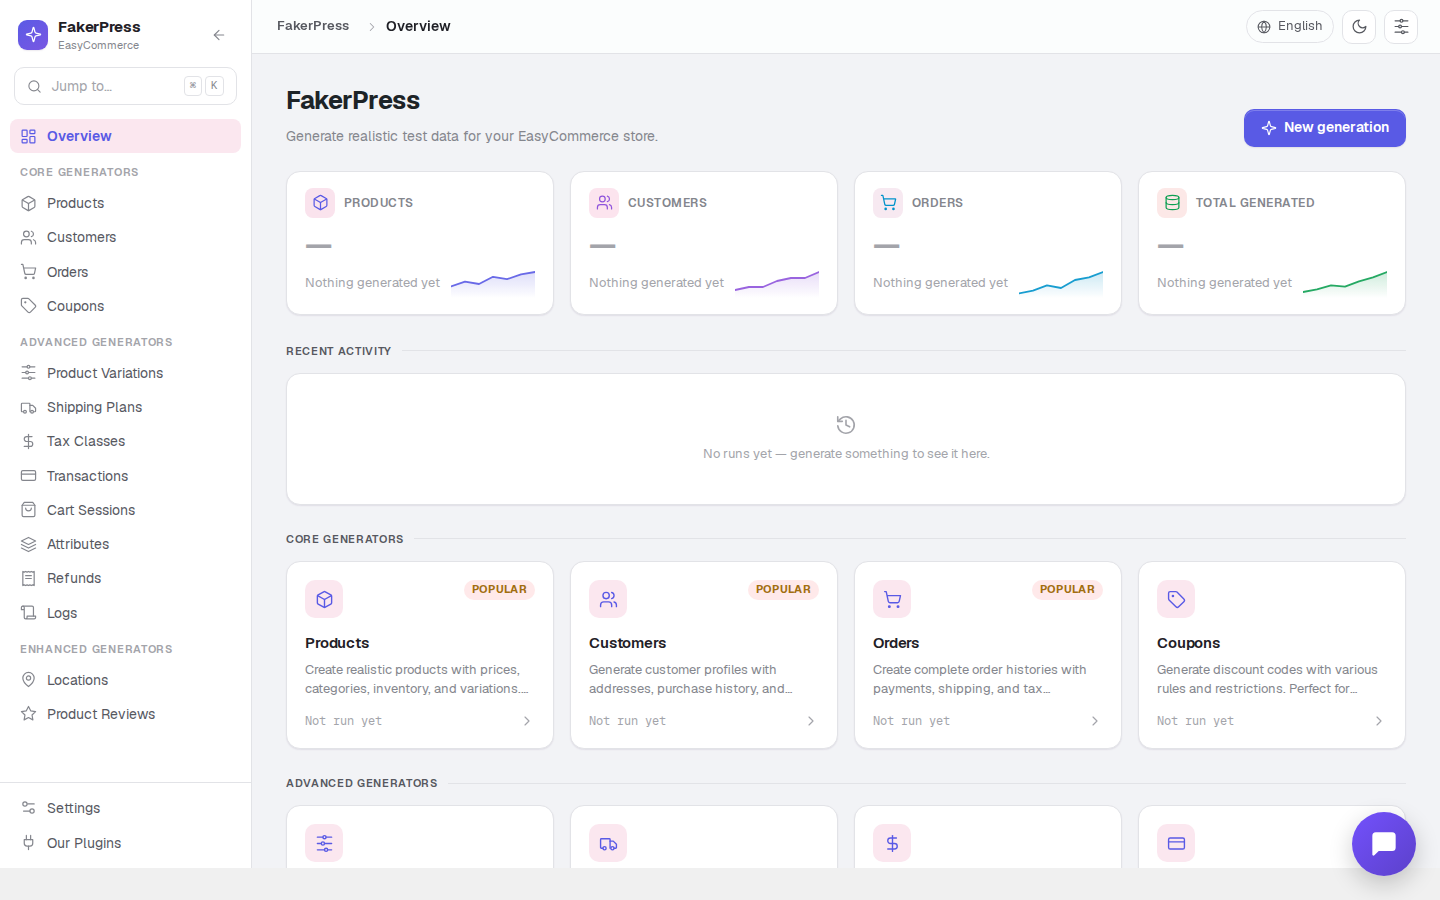
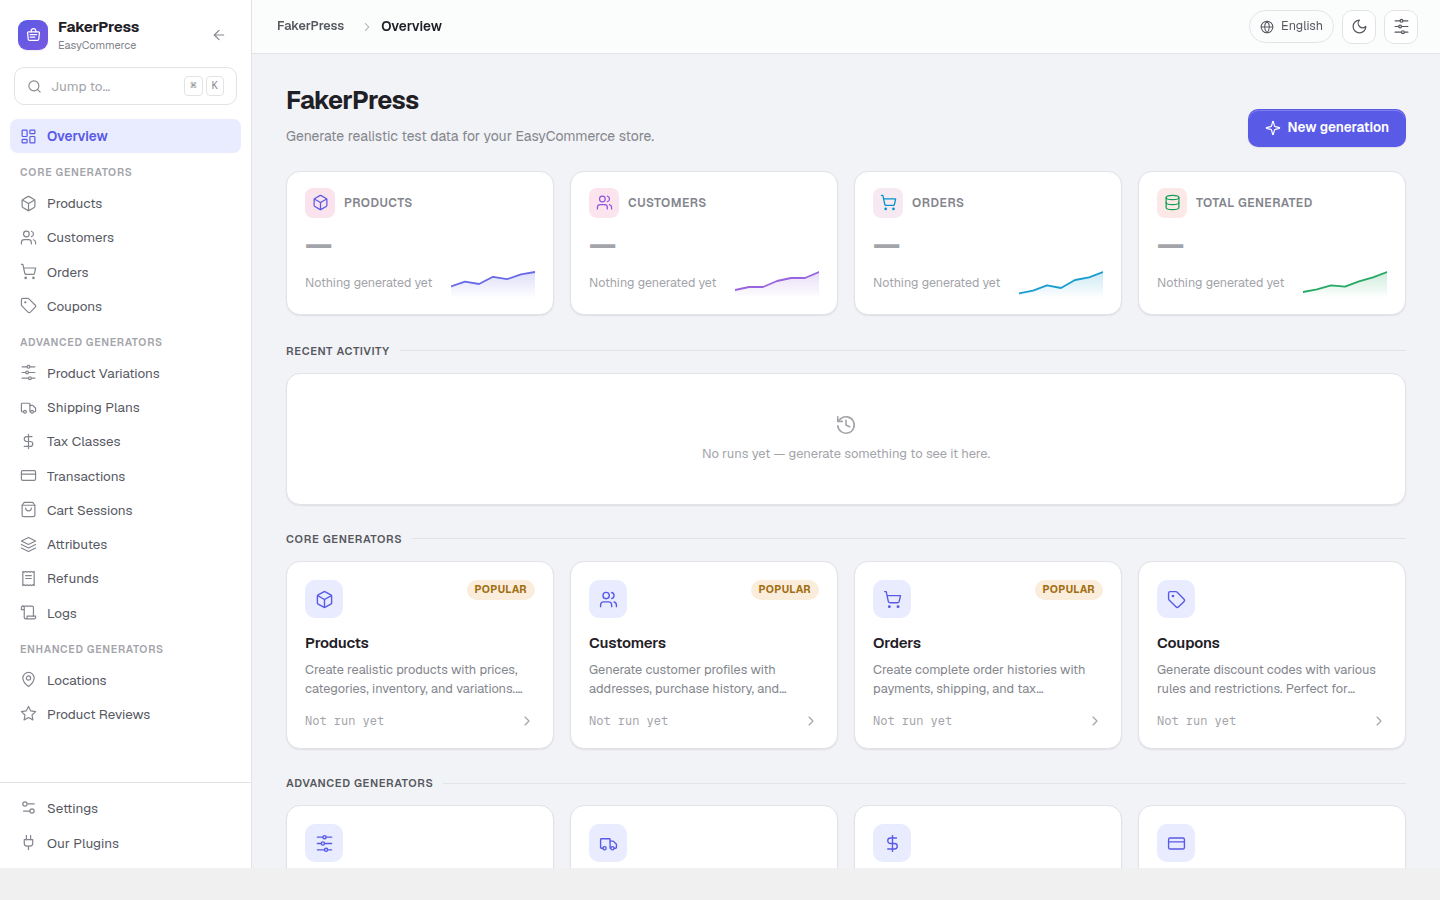
fix(ui): keep accent tints on the accent's own hue, and refresh the screenshots
The soft accent tokens were built with color-mix() in oklch. oklch carries an
explicit hue channel, and both white and black sit at hue 0, so mixing the
accent towards a neutral interpolated its hue as well as its lightness: the
indigo accent at hue 277 came out at hue 350, and every highlight, badge,
hover state and focus ring in the admin rendered pink. Mixing in oklab
instead keeps the same perceptual space on rectangular axes, so a blend
towards a neutral leaves the hue alone. All 25 mixes across both stylesheets
move over.

The listing screenshots are regenerated against 2.3.0 as a result. They had
been showing the previous sparkle logo, the pink tints, and the support
widget belonging to the site they were captured on. The capture spec now
hides that widget and pins the admin colour variables, so whoever runs it
cannot have their personal admin colour scheme decide what colour the
WordPress.org listing is.

playwright.screenshots.config.ts drives an installed Chrome through
channel: 'chrome' rather than requiring a browser download, and fixes the
viewport at 1440x900 so every screenshot matches.

diff --git a/src/admin/components.css b/src/admin/components.css
@@ -13,7 +13,7 @@
 .fp-root .fp-brand { display:flex; align-items:center; gap:10px; padding:16px 18px 12px; }
 .fp-root .fp-brand-mark {
   width:30px; height:30px; border-radius:9px; flex-shrink:0;
-  background:linear-gradient(140deg, var(--accent), color-mix(in oklch, var(--accent), var(--violet) 55%));
+  background:linear-gradient(140deg, var(--accent), color-mix(in oklab, var(--accent), var(--violet) 55%));
   color:var(--accent-contrast); display:grid; place-items:center; box-shadow:var(--shadow-sm);
 }
 .fp-root .fp-brand-name { font-weight:650; font-size:15px; letter-spacing:-.01em; }
@@ -44,7 +44,7 @@
 .fp-root .fp-nav-item.active .fp-nav-ic { color:var(--accent); }
 .fp-root .fp-nav-ic { color:var(--text-3); }
 .fp-root .fp-nav-count { margin-left:auto; font-size:11px; font-family:var(--font-mono); color:var(--text-faint); background:var(--surface-inset); padding:1px 7px; border-radius:var(--r-full); }
-.fp-root .fp-nav-item.active .fp-nav-count { background:color-mix(in oklch, var(--accent) 16%, transparent); color:var(--accent); }
+.fp-root .fp-nav-item.active .fp-nav-count { background:color-mix(in oklab, var(--accent) 16%, transparent); color:var(--accent); }
 
 .fp-root .fp-nav-foot { border-top:1px solid var(--border); padding:8px 10px; display:flex; flex-direction:column; gap:1px; }
 
@@ -70,7 +70,7 @@
 .fp-root .fp-main { flex:1; min-width:0; display:flex; flex-direction:column; min-height:0; }
 .fp-root .fp-topbar {
   height:54px; flex-shrink:0; display:flex; align-items:center; gap:12px; padding:0 22px;
-  border-bottom:1px solid var(--border); background:color-mix(in oklch, var(--surface) 70%, transparent);
+  border-bottom:1px solid var(--border); background:color-mix(in oklab, var(--surface) 70%, transparent);
   backdrop-filter:blur(8px); position:sticky; top:0; z-index:10;
 }
 .fp-root .fp-crumbs { display:flex; align-items:center; gap:7px; font-size:13.5px; color:var(--text-3); }
@@ -101,7 +101,7 @@
 .fp-root .fp-btn-md { height:38px; padding:0 16px; font-size:13.5px; }
 .fp-root .fp-btn-sm { height:31px; padding:0 11px; font-size:12.5px; }
 .fp-root .fp-btn-lg { height:44px; padding:0 22px; font-size:14.5px; }
-.fp-root .fp-btn-primary { background:var(--accent); color:var(--accent-contrast); box-shadow:var(--shadow-sm), inset 0 1px 0 color-mix(in oklch, white 22%, transparent); }
+.fp-root .fp-btn-primary { background:var(--accent); color:var(--accent-contrast); box-shadow:var(--shadow-sm), inset 0 1px 0 color-mix(in oklab, white 22%, transparent); }
 .fp-root .fp-btn-primary:hover { background:var(--accent-hover); }
 .fp-root .fp-btn-outline { background:var(--surface); color:var(--text); border-color:var(--border-strong); }
 .fp-root .fp-btn-outline:hover { background:var(--surface-inset); }
@@ -109,8 +109,8 @@
 .fp-root .fp-btn-ghost:hover { background:var(--surface-inset); color:var(--text); }
 .fp-root .fp-btn-soft { background:var(--accent-soft); color:var(--accent); }
 .fp-root .fp-btn-soft:hover { background:var(--accent-soft-2); }
-.fp-root .fp-btn-danger { background:var(--surface); color:var(--red); border-color:color-mix(in oklch, var(--red) 35%, var(--border)); }
-.fp-root .fp-btn-danger:hover { background:color-mix(in oklch, var(--red) 10%, var(--surface)); }
+.fp-root .fp-btn-danger { background:var(--surface); color:var(--red); border-color:color-mix(in oklab, var(--red) 35%, var(--border)); }
+.fp-root .fp-btn-danger:hover { background:color-mix(in oklab, var(--red) 10%, var(--surface)); }
 .fp-root .fp-btn[disabled] { opacity:.5; pointer-events:none; }
 
 /* ===== toggle ===== */
@@ -175,17 +175,17 @@
 .fp-root .tone-amber { color:var(--amber); } .fp-root .tone-amber .fp-dot { background:var(--amber); }
 .fp-root .tone-red { color:var(--red); } .fp-root .tone-red .fp-dot { background:var(--red); }
 .fp-root .tone-sky { color:var(--sky); } .fp-root .tone-sky .fp-dot { background:var(--sky); }
-.fp-root .fp-badge.tone-green { background:color-mix(in oklch,var(--green) 14%,var(--surface)); border-color:color-mix(in oklch,var(--green) 26%,var(--border)); color:var(--green); }
-.fp-root .fp-badge.tone-amber { background:color-mix(in oklch,var(--amber) 16%,var(--surface)); border-color:color-mix(in oklch,var(--amber) 28%,var(--border)); color:color-mix(in oklch,var(--amber),black 18%); }
+.fp-root .fp-badge.tone-green { background:color-mix(in oklab,var(--green) 14%,var(--surface)); border-color:color-mix(in oklab,var(--green) 26%,var(--border)); color:var(--green); }
+.fp-root .fp-badge.tone-amber { background:color-mix(in oklab,var(--amber) 16%,var(--surface)); border-color:color-mix(in oklab,var(--amber) 28%,var(--border)); color:color-mix(in oklab,var(--amber),black 18%); }
 .fp-root[data-theme="dark"] .fp-badge.tone-amber { color:var(--amber); }
 .fp-root .fp-badge.tone-accent { background:var(--accent-soft); border-color:var(--accent-line); color:var(--accent); }
 
 /* ===== popular / pill tags ===== */
-.fp-root .fp-tag { font-size:10.5px; font-weight:650; letter-spacing:.03em; text-transform:uppercase; padding:2px 8px; border-radius:var(--r-full); background:color-mix(in oklch,var(--amber) 18%,var(--surface)); color:color-mix(in oklch,var(--amber),black 22%); }
+.fp-root .fp-tag { font-size:10.5px; font-weight:650; letter-spacing:.03em; text-transform:uppercase; padding:2px 8px; border-radius:var(--r-full); background:color-mix(in oklab,var(--amber) 18%,var(--surface)); color:color-mix(in oklab,var(--amber),black 22%); }
 .fp-root[data-theme="dark"] .fp-tag { color:var(--amber); }
 
 /* ===== overlays ===== */
-.fp-root .fp-overlay { position:fixed; inset:0; background:color-mix(in oklch, #000 38%, transparent); backdrop-filter:blur(2px); z-index:100; display:flex; animation:fp-fade .15s both; }
+.fp-root .fp-overlay { position:fixed; inset:0; background:color-mix(in oklab, #000 38%, transparent); backdrop-filter:blur(2px); z-index:100; display:flex; animation:fp-fade .15s both; }
 
 /* ===== dashboard ===== */
 .fp-root .fp-page-head { display:flex; align-items:flex-end; justify-content:space-between; gap:20px; margin-bottom:24px; }
@@ -256,7 +256,7 @@
 .fp-root .fp-preview-col { padding:26px 30px 40px; display:flex; flex-direction:column; min-width:0; min-height:0; background:var(--bg); }
 .fp-root .fp-preview-head { display:flex; align-items:center; gap:12px; margin-bottom:6px; }
 .fp-root .fp-preview-title { font-size:13px; font-weight:600; letter-spacing:.04em; text-transform:uppercase; color:var(--text-2); display:flex; align-items:center; gap:8px; }
-.fp-root .fp-live-dot { width:7px; height:7px; border-radius:50%; background:var(--green); box-shadow:0 0 0 4px color-mix(in oklch,var(--green) 22%,transparent); animation:fp-pulse 2s infinite; }
+.fp-root .fp-live-dot { width:7px; height:7px; border-radius:50%; background:var(--green); box-shadow:0 0 0 4px color-mix(in oklab,var(--green) 22%,transparent); animation:fp-pulse 2s infinite; }
 @keyframes fp-pulse { 0%,100%{opacity:1;} 50%{opacity:.4;} }
 .fp-root .fp-preview-actions { margin-left:auto; display:flex; align-items:center; gap:8px; }
 .fp-root .fp-preview-note { font-size:12px; color:var(--text-3); margin-bottom:14px; }
@@ -282,7 +282,7 @@
 .fp-root .fp-preview-error { color:var(--red); }
 
 /* sticky generate bar */
-.fp-root .fp-genbar { position:sticky; bottom:0; z-index:20; display:flex; align-items:center; gap:18px; padding:14px 30px; border-top:1px solid var(--border); background:color-mix(in oklch,var(--surface) 86%,transparent); backdrop-filter:blur(10px); }
+.fp-root .fp-genbar { position:sticky; bottom:0; z-index:20; display:flex; align-items:center; gap:18px; padding:14px 30px; border-top:1px solid var(--border); background:color-mix(in oklab,var(--surface) 86%,transparent); backdrop-filter:blur(10px); }
 .fp-root .fp-genbar-ctl { display:flex; align-items:center; gap:9px; }
 .fp-root .fp-genbar-ctl > .lbl { font-size:12px; font-weight:600; color:var(--text-3); text-transform:uppercase; letter-spacing:.04em; }
 .fp-root .fp-genbar-sep { width:1px; height:30px; background:var(--border); }
@@ -291,7 +291,7 @@
 .fp-root .fp-seed-input .fp-input { height:36px; font-family:var(--font-mono); font-size:12.5px; }
 
 /* generating overlay state */
-.fp-root .fp-gen-progress { position:absolute; inset:0; background:color-mix(in oklch,var(--surface) 70%,transparent); backdrop-filter:blur(3px); display:flex; flex-direction:column; align-items:center; justify-content:center; gap:18px; z-index:5; border-radius:var(--r-lg); }
+.fp-root .fp-gen-progress { position:absolute; inset:0; background:color-mix(in oklab,var(--surface) 70%,transparent); backdrop-filter:blur(3px); display:flex; flex-direction:column; align-items:center; justify-content:center; gap:18px; z-index:5; border-radius:var(--r-lg); }
 .fp-root .fp-progress-track { width:240px; height:6px; border-radius:999px; background:var(--surface-inset); overflow:hidden; }
 .fp-root .fp-progress-fill { height:100%; background:var(--accent); border-radius:999px; }
 .fp-root .fp-spinner { width:30px; height:30px; border-radius:50%; border:3px solid var(--border); border-top-color:var(--accent); animation:fp-spin .8s linear infinite; }
@@ -317,10 +317,10 @@
 .fp-root .fp-set-field.full { max-width:none; }
 .fp-root .fp-set-label { font-size:13px; font-weight:550; display:block; margin-bottom:5px; }
 .fp-root .fp-set-hint { font-size:12.3px; color:var(--text-3); margin:-1px 0 9px; }
-.fp-root .fp-set-sync { display:flex; align-items:center; gap:11px; padding:12px 14px; border-radius:var(--r-md); background:color-mix(in oklch,var(--green) 9%,var(--surface)); border:1px solid color-mix(in oklch,var(--green) 22%,var(--border)); margin-bottom:14px; }
+.fp-root .fp-set-sync { display:flex; align-items:center; gap:11px; padding:12px 14px; border-radius:var(--r-md); background:color-mix(in oklab,var(--green) 9%,var(--surface)); border:1px solid color-mix(in oklab,var(--green) 22%,var(--border)); margin-bottom:14px; }
 .fp-root .fp-set-sync-ic { color:var(--green); }
 .fp-root .fp-set-about { display:flex; align-items:center; gap:13px; margin-bottom:16px; }
-.fp-root .fp-danger-card { border-color:color-mix(in oklch,var(--red) 30%,var(--border)); background:color-mix(in oklch,var(--red) 4%,var(--surface)); }
+.fp-root .fp-danger-card { border-color:color-mix(in oklab,var(--red) 30%,var(--border)); background:color-mix(in oklab,var(--red) 4%,var(--surface)); }
 .fp-root .fp-danger-label { color:var(--red); }
 .fp-root .fp-danger-act { display:flex; flex-direction:column; gap:6px; margin-bottom:16px; }
 
@@ -361,7 +361,7 @@
 /* ===== toasts ===== */
 .fp-root .fp-toast-wrap { position:fixed; bottom:22px; right:22px; z-index:200; display:flex; flex-direction:column; gap:10px; }
 .fp-root .fp-toast { display:flex; align-items:center; gap:12px; padding:13px 16px; min-width:300px; background:var(--surface); border:1px solid var(--border); border-radius:var(--r-md); box-shadow:var(--shadow-lg); animation:fp-fade-up .3s cubic-bezier(.2,.8,.2,1) both; }
-.fp-root .fp-toast-ic { width:30px; height:30px; border-radius:8px; display:grid; place-items:center; background:color-mix(in oklch,var(--green) 16%,var(--surface)); color:var(--green); flex-shrink:0; }
+.fp-root .fp-toast-ic { width:30px; height:30px; border-radius:8px; display:grid; place-items:center; background:color-mix(in oklab,var(--green) 16%,var(--surface)); color:var(--green); flex-shrink:0; }
 .fp-root .fp-toast-title { font-size:13.5px; font-weight:600; }
 .fp-root .fp-toast-sub { font-size:12px; color:var(--text-3); }
 .fp-root .fp-toast-x { margin-left:auto; color:var(--text-faint); cursor:pointer; background:none; border:none; }

diff --git a/src/styles.css b/src/styles.css
@@ -111,11 +111,16 @@
   --violet: oklch(0.58 0.20 300);
 
   /* derived accent helpers */
-  --accent-hover: color-mix(in oklch, var(--accent), black 12%);
-  --accent-soft: color-mix(in oklch, var(--accent) 12%, var(--surface));
-  --accent-soft-2: color-mix(in oklch, var(--accent) 20%, var(--surface));
-  --accent-line: color-mix(in oklch, var(--accent) 32%, var(--border));
-  --ring: color-mix(in oklch, var(--accent) 36%, transparent);
+  /* Mixed in oklab, not oklch. oklch carries an explicit hue channel, and white
+     and black have a hue of 0, so mixing the accent toward a neutral drags its
+     hue with it — indigo at hue 277 landed on hue 350 and every soft tint in the
+     admin came out pink. oklab is the same perceptual space expressed on
+     rectangular axes, so a mix toward a neutral keeps the accent's own hue. */
+  --accent-hover: color-mix(in oklab, var(--accent), black 12%);
+  --accent-soft: color-mix(in oklab, var(--accent) 12%, var(--surface));
+  --accent-soft-2: color-mix(in oklab, var(--accent) 20%, var(--surface));
+  --accent-line: color-mix(in oklab, var(--accent) 32%, var(--border));
+  --ring: color-mix(in oklab, var(--accent) 36%, transparent);
 
   /* base app styles */
   background: var(--bg-2);
@@ -183,9 +188,9 @@ body:not(.admin-bar) .fp-root { --fp-admin-bar: 0px; }
   --sky: oklch(0.70 0.14 232);
   --violet: oklch(0.70 0.18 300);
 
-  --accent-soft: color-mix(in oklch, var(--accent) 22%, var(--surface));
-  --accent-soft-2: color-mix(in oklch, var(--accent) 34%, var(--surface));
-  --accent-hover: color-mix(in oklch, var(--accent), white 10%);
+  --accent-soft: color-mix(in oklab, var(--accent) 22%, var(--surface));
+  --accent-soft-2: color-mix(in oklab, var(--accent) 34%, var(--surface));
+  --accent-hover: color-mix(in oklab, var(--accent), white 10%);
 }
 
 /* ---- accent palettes ---- */
@@ -216,7 +221,7 @@ body:not(.admin-bar) .fp-root { --fp-admin-bar: 0px; }
 }
 
 /* ---- selection ---- */
-.fp-root ::selection { background: color-mix(in oklch, var(--accent) 28%, transparent); }
+.fp-root ::selection { background: color-mix(in oklab, var(--accent) 28%, transparent); }
 
 /* ---- keyframes (global — fine for @keyframes) ---- */
 @keyframes fp-fade-up { from { opacity: 0; transform: translateY(8px); } to { opacity: 1; transform: none; } }

diff --git a/tests/e2e/specs/screenshots.spec.ts b/tests/e2e/specs/screenshots.spec.ts
@@ -18,6 +18,22 @@ async function hideWpChrome(page: import('@playwright/test').Page) {
       #wpadminbar { display: none !important; }
       html.wp-toolbar { padding-top: 0 !important; }
       #wpcontent, #wpfooter { margin-left: 0 !important; }
+      #wpfooter { display: none !important; }
+
+      /* Support widgets belong to whichever site the shots were taken on,
+         not to this plugin. */
+      .helpwp-widget { display: none !important; }
+
+      /* The plugin picks up the admin colour scheme through these variables,
+         so whoever captures the screenshots would otherwise decide what colour
+         the listing is. Pin them to the plugin's own indigo so the screenshots
+         match the icon and banner. */
+      .fp-root {
+        --wp-admin-primary: #4f46e5 !important;
+        --wp-admin-secondary: #4338ca !important;
+        --wp-admin-highlight: #6366f1 !important;
+        --wp-admin-accent: #7c3aed !important;
+      }
     `,
   });
   // Allow layout to settle after injection

diff --git a/playwright.screenshots.config.ts b/playwright.screenshots.config.ts
@@ -1,0 +1,28 @@
+import base from './playwright.config';
+import { defineConfig } from '@playwright/test';
+
+/**
+ * Config for regenerating the WordPress.org listing screenshots.
+ *
+ *   npx playwright test --config=playwright.screenshots.config.ts --project=shots
+ *
+ * Uses `channel: 'chrome'` so it drives an already-installed Chrome rather than
+ * requiring `playwright install`, and pins the viewport to 1440x900 so every
+ * screenshot in .wordpress-org/ comes out the same size.
+ */
+export default defineConfig({
+  ...base,
+  projects: [
+    { name: 'setup', testMatch: 'auth.setup.ts', use: { channel: 'chrome' } },
+    {
+      name: 'shots',
+      testMatch: 'screenshots.spec.ts',
+      dependencies: ['setup'],
+      use: {
+        channel: 'chrome',
+        viewport: { width: 1440, height: 900 },
+        storageState: 'tests/e2e/.auth/admin.json',
+      },
+    },
+  ],
+});

diff --git a/CHANGELOG.md b/CHANGELOG.md
@@ -8,6 +8,10 @@ Release dates are taken from the release tags in this repository. The [`readme.t
 
 ## [Unreleased]
 
+### Fixed
+
+- Accent colours no longer drift towards pink. Soft accent tints were mixed in a colour space that carries an explicit hue channel, so blending the accent towards a light or dark neutral dragged its hue with it — the indigo accent rendered its highlights, badges and hover states in pink.
+
 ## [2.3.0] - 2026-07-20
 
 ### Added
